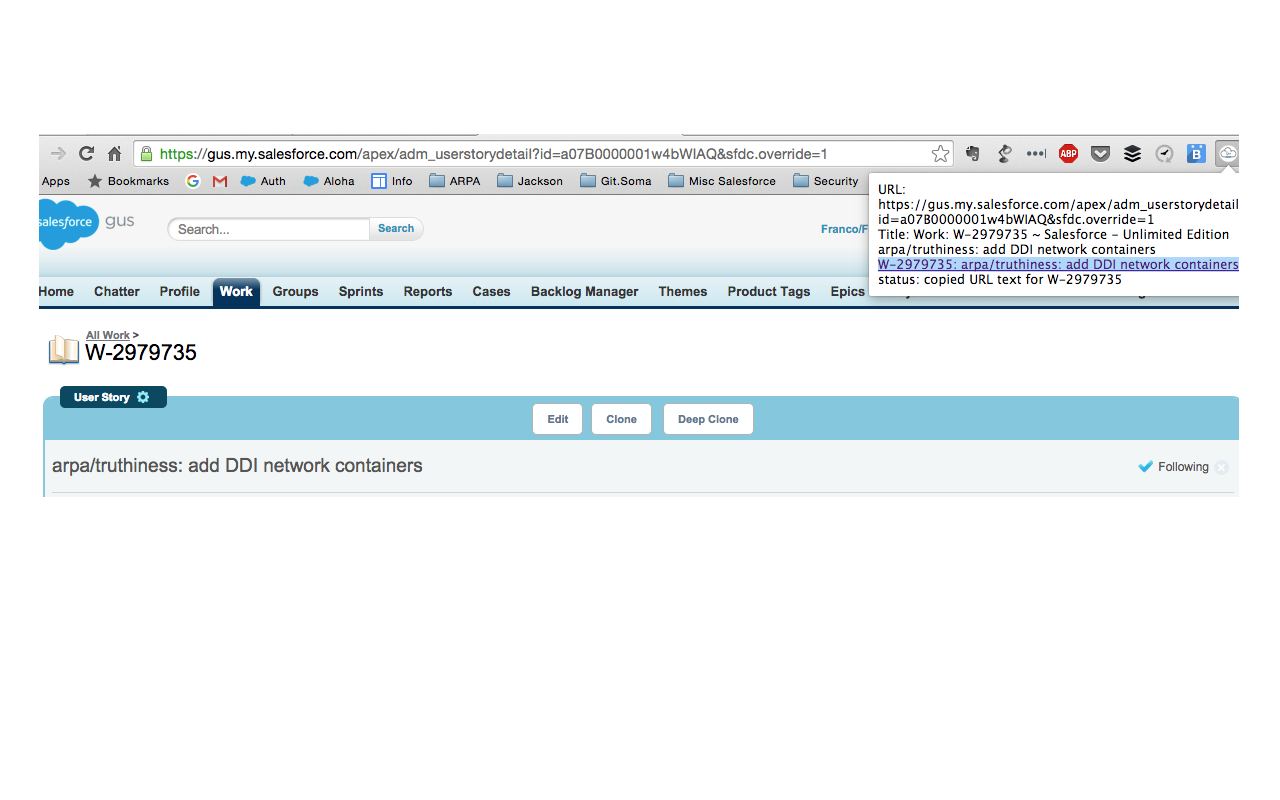
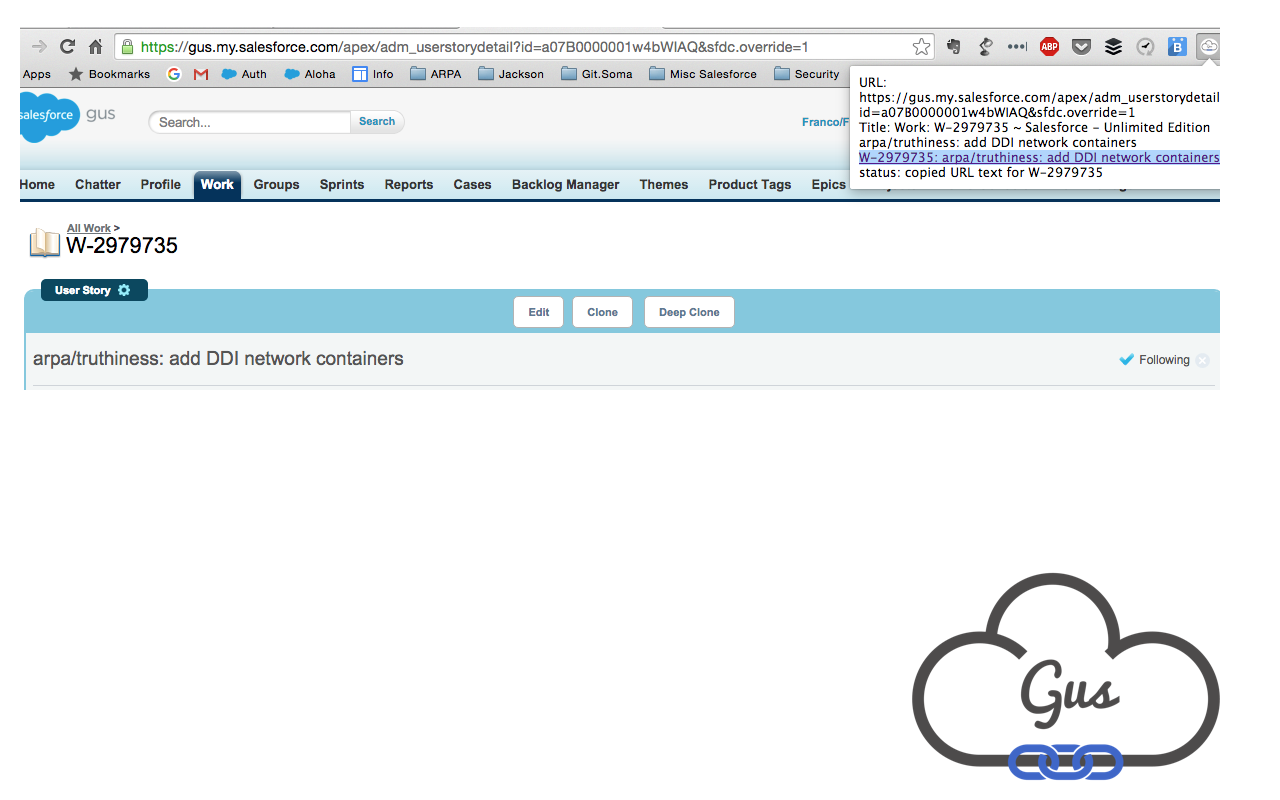
work for any web page (title only) - enhanced popup

Changed region(s): [[0.0, 0.0312, 0.9688, 0.5938], [0.6875, 0.7188, 0.9688, 1.0]]

diff --git a/gus/popup.js b/gus/popup.js
@@ -109,17 +109,20 @@ document.addEventListener('DOMContentLoaded', function(tab) {
         chrome.tabs.sendMessage(tabs[0].id, {to_content: "description"}, function(response) {
           console.log("response received by popup.js");
           console.log(response);
-          console.log(response);
-          renderTextElement("description", response.to_popup);
-          description = response.to_popup;
-          var w_expr = /.*(W-\d+).*/;
-          var match = w_expr.exec(title);
-          var w_id = match[1];
-          var awesome_url = "<a href=" + url + ">" + w_id + ": " + description + "</a>";
+          link_text = title
+          if (response != null) {
+            renderTextElement("description", response.to_popup);
+            description = response.to_popup;
+            var w_expr = /.*(W-\d+).*/;
+            var match = w_expr.exec(title);
+            var w_id = match[1];
+            link_text = w_id + ": " + description
+          }
+          var awesome_url = "<a href=" + url + ">" + link_text + "</a>";
           node = document.getElementById("copy-me");
           node.innerHTML = awesome_url;
           toClipboard(node.children[0])
-          renderTextElement("copy-status", "status: copied URL text for " + w_id);
+          renderTextElement("copy-status", "status: copied URL text!");
         });
       });
     })

diff --git a/gus/popup.html b/gus/popup.html
@@ -30,10 +30,14 @@
     <script src="popup.js"></script>
   </head>
   <body>
+    <img src=gus_logo_large_square_icon_128a.png>
     <div id="url">default_status</div>
     <div id="title">default_title</div>
-    <div id="description">default_descr</div>
-    <div id="copy-me">default_awesome_url</div>
-    <div id="copy-status">status: init: copy not performed</div>
+    <div id="description">(none)</div>
+    <hr>
+    <div style="border:1px dotted blue; background-color: #aaaaaa">
+      <div id="copy-me">default_awesome_url</div>
+    </div>
+    <div style="font-style: italic;" id="copy-status">status: init: copy not performed</div>
   </body>
 </html>
